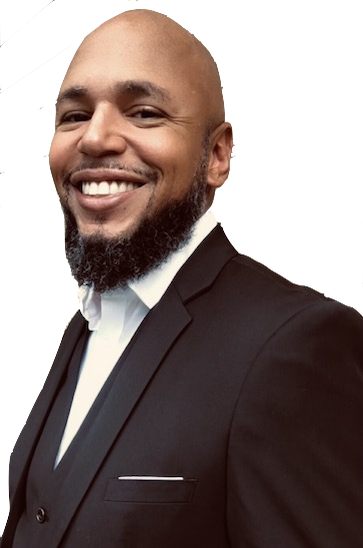
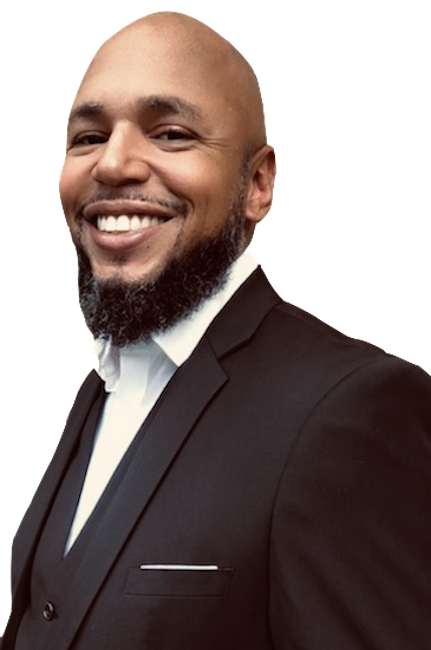
update: enlarge picture on home screen

diff --git a/home.html b/home.html
@@ -37,11 +37,11 @@
       <div class="navbar">
         <div class="logo"><a href="#">Portfolio</a></div>
         <ul class="menu">
-          <li href="#home">Home</li>
-          <li href="#about">About</li>
-          <li href="#skills">Skills</li>
-          <li href="#services">Services</li>
-          <li href="contact">Contact</li>
+          <li><a href="#home">Home</a></li></li>
+          <li><a href="#about">About</a></li>
+          <li><a href="#skills">Skills</a></li>
+          <li><a href="#projects">Projects</a></li>
+          <li><a href="contact">Contact</a></li>
           <div class="cancelBtn">
             <i class="fas fa-times"></i>
           </div>
@@ -67,14 +67,9 @@
           <div class="text-four">In San Antonio, Tx</div>
         </div>
         <div class="button">
-          <button>Hire Me</button>
+          <button>Resume</button>
         </div>
       </div>
-      <img
-        src="img/IMG-1561 copy.png"
-        class="img-fluid"
-        alt="Responsive image"
-      />
     </section>
     <script src="script.js"></script>
   </body>

diff --git a/style.css b/style.css
@@ -140,9 +140,9 @@ nav.sticky .menuBtn {
   height: 100vh;
   width: 100%;
   background: url("img/IMG-1561\ copy.png") no-repeat;
-  /* background-size: contain; */
-  background-position: 95% center;
+  background-position: 95% 90%;
   background-attachment: fixed;
+  background-color: #f1f4f9;
 }
 
 .home-content {
@@ -152,23 +152,24 @@ nav.sticky .menuBtn {
   width: 88%;
   height: 100%;
   margin: auto;
+  padding-top: 8rem;
 }
 
 .text-one {
-  font-size: 3rem;
+  font-size: 4rem;
 }
 
 .text-two {
-  font-size: 2.5rem;
+  font-size: 3.5rem;
 }
 
 #name {
   color: var(--primary-color);
   font-family: "Josefin Slab", serif;
-  font-size: 3rem;
+  font-size: 4rem;
 }
 
 .text-three,
 .text-four {
-  font-size: 2.5rem;
+  font-size: 3.5rem;
 }
